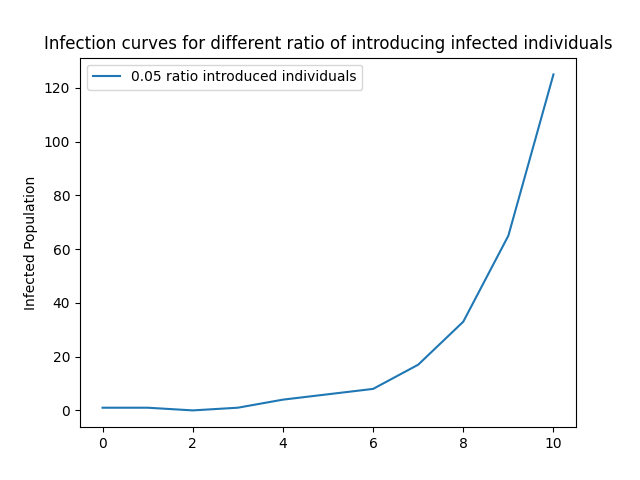
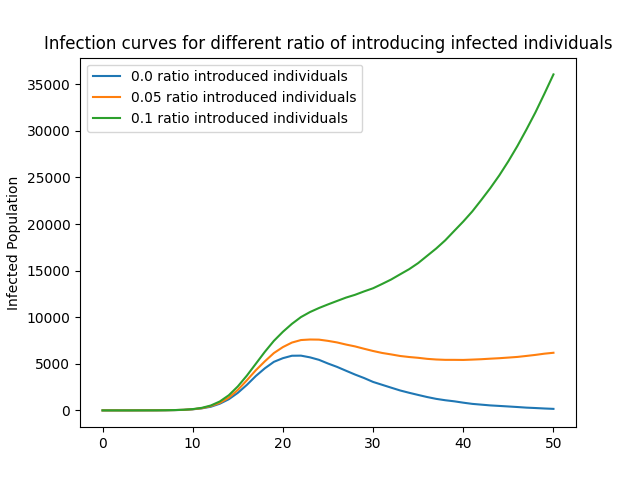
reasonable simulation

diff --git a/python_examples/travel_example/travel_simulation_flow.py b/python_examples/travel_example/travel_simulation_flow.py
@@ -18,7 +18,7 @@ logging.basicConfig(filename='sim.log', filemode='w+', level=logging.DEBUG,
 file_loc = os.path.join(os.path.dirname(__file__), "input.csv")
 
 # sim_params give details for the running of the simulations
-sim_params = {"simulation_start_time": 0, "simulation_end_time": 10,
+sim_params = {"simulation_start_time": 0, "simulation_end_time": 50,
               "initial_infected_number": 1, "initial_infect_cell": True}
 
 # Set parameter file
@@ -30,8 +30,7 @@ pe.Parameters.set_file(os.path.join(os.path.dirname(__file__),
 
 # Parameter to change
 to_modify_parameter = 'ratio_introduce_cases'
-# parameter_values = [0.0, 0.05, 0.1]
-parameter_values = [0.05]
+parameter_values = [0.0, 0.05, 0.1]
 
 for i in range(len(parameter_values)):
     name_output_file = 'output_{}_{}.csv'.format(
